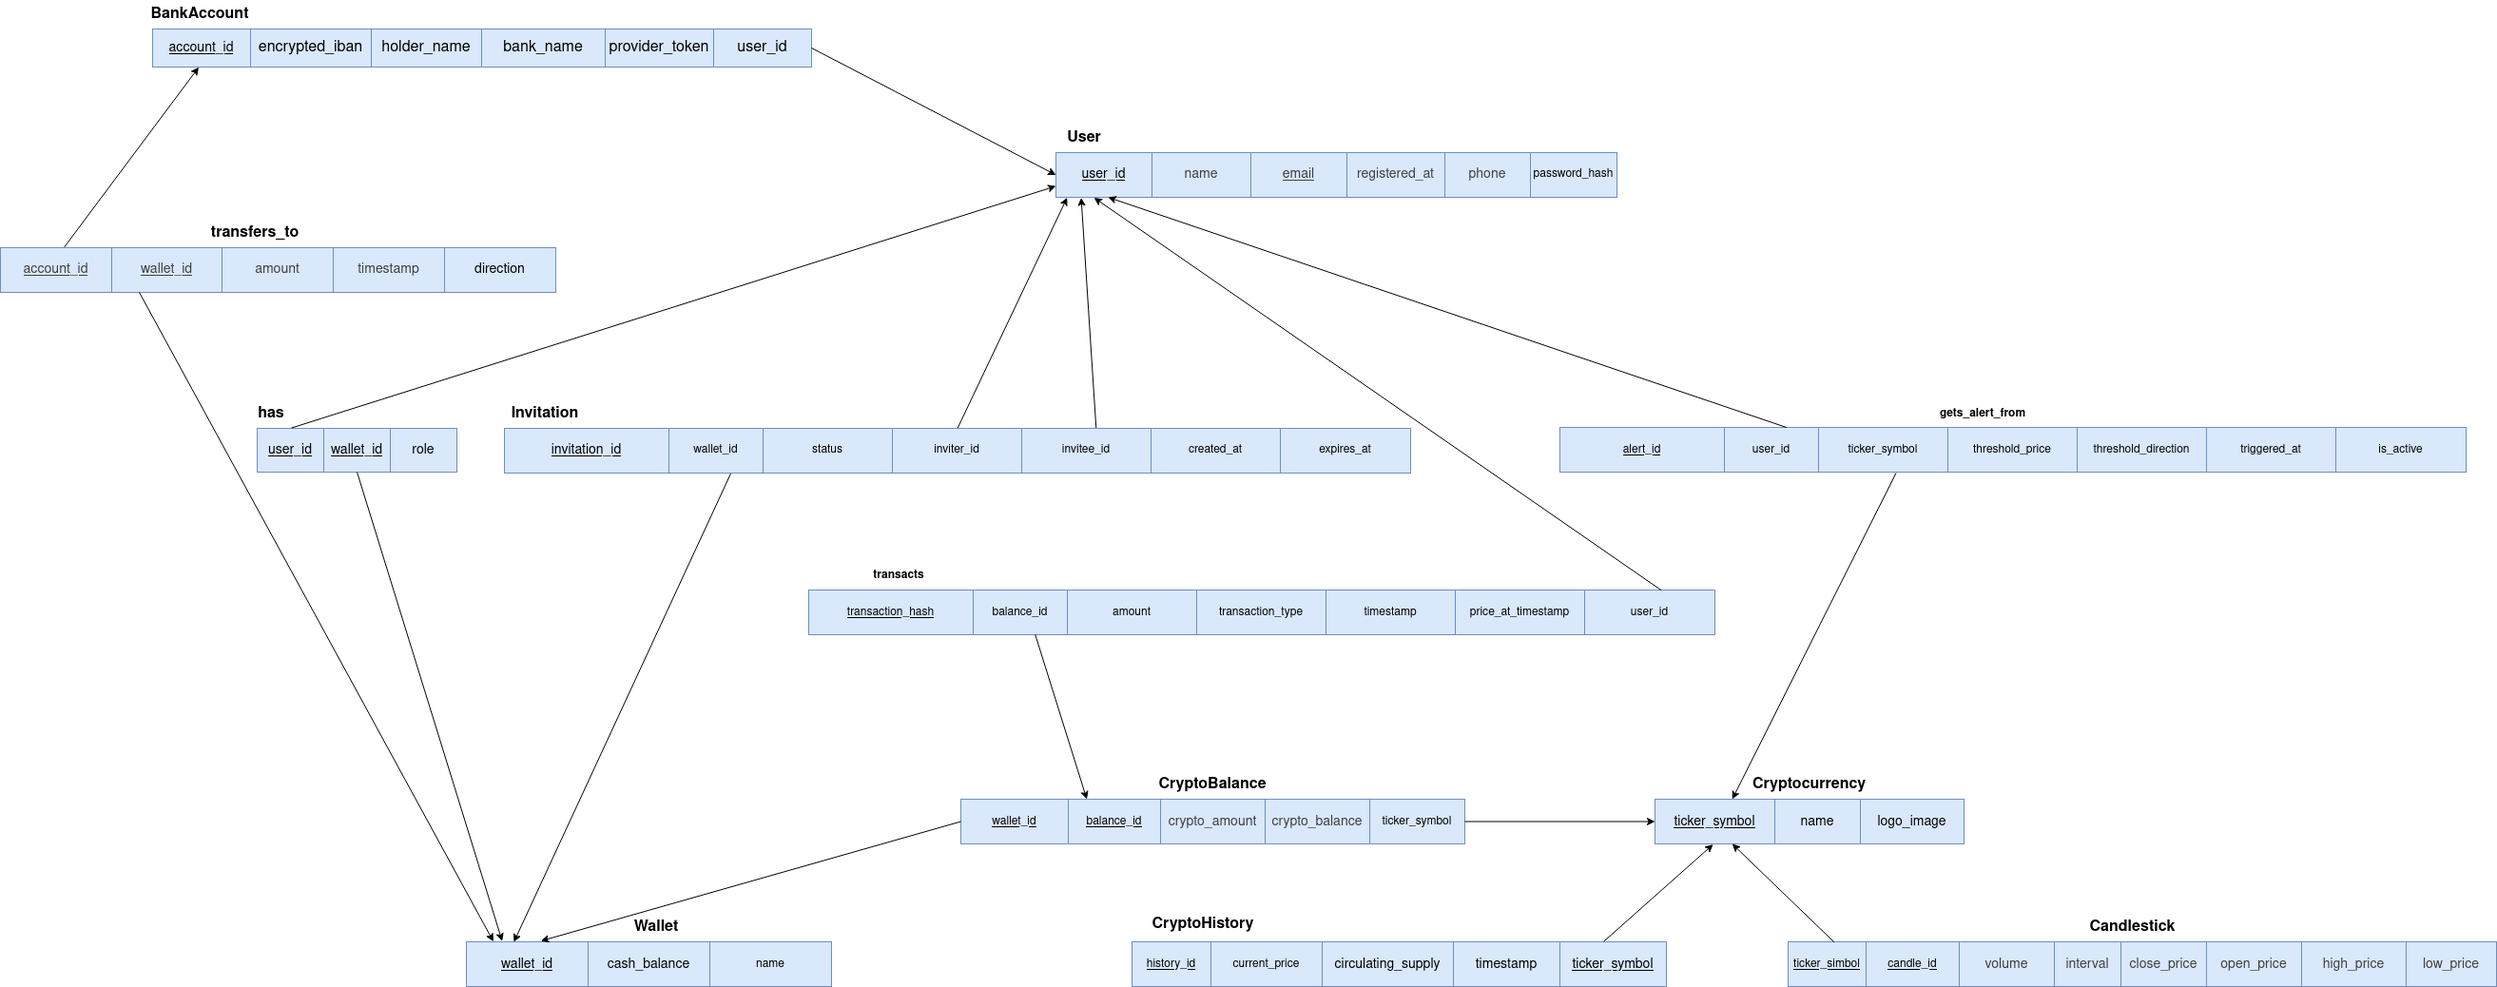
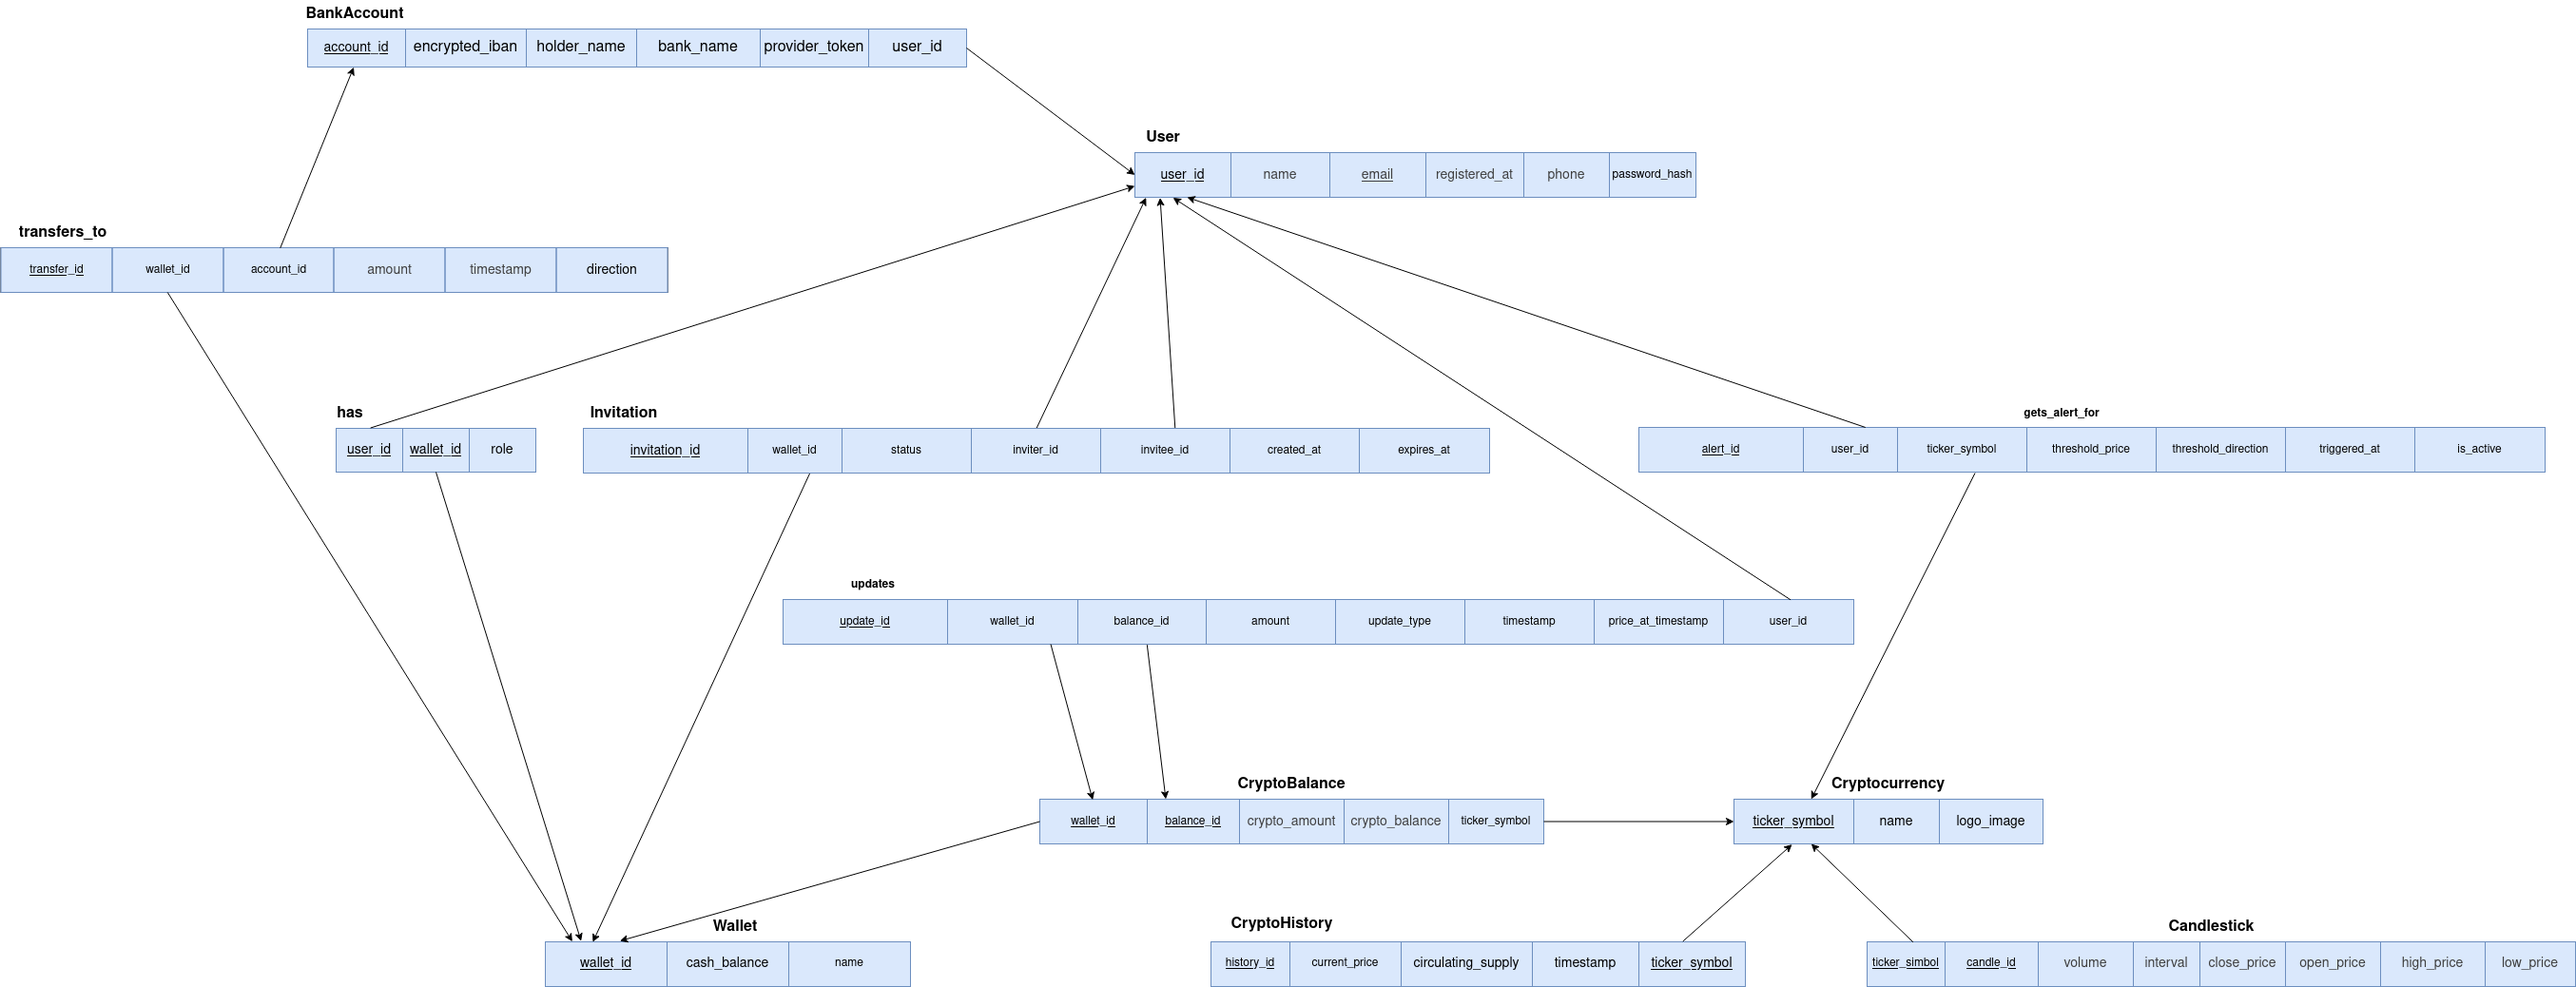
Update ER/RS diagrams

diff --git a/deliverable-1/sections/examples.tex b/deliverable-1/sections/examples.tex
@@ -268,7 +268,7 @@
 \bowtie_{\text{ticker\_symbol}} \text{Cryptocurrency}
 \\
 &B \leftarrow
-{}_{\text{user\_id, asset\_id}}\mathcal{G}_{\text{sum(balance) as assetCount}}
+{}_{\text{user\_id, ticker\_symbol}}\mathcal{G}_{\text{sum(balance) as cryptoCount}}
 \Bigl(\pi_{\text{user\_id, name, ticker\_symbol, crypto\_amount}} \bigl(A\bigr)\Bigr) \\
 &C \leftarrow \sigma_{\text{user\_id=1} \land \text{ticker\_symbol=BTC}}\bigl(B\bigr)
 \end{aligned}
@@ -283,7 +283,7 @@
   \text{BankAccount} \bowtie_{\text{account\_id}}
   \text{transfers\_to}
 \bigr) \\
-&\sigma_{\text{user\_id=1}} \Bigl(\pi_{\text{user\_id, wallet\_id}}\bigl(A\bigr)\Bigr) \\
+&B \leftarrow \sigma_{\text{user\_id=1}} \Bigl(\pi_{\text{user\_id, wallet\_id}}\bigl(A\bigr)\Bigr) \\
 \end{aligned}
 \]
 
@@ -298,7 +298,7 @@
 \begin{aligned}
 &A \leftarrow 
 \text{User} \bowtie_{\text{user\_id}}
-\text{transacts} \bowtie_{\text{balance\_id}}
+\text{updates} \bowtie_{\text{balance\_id}}
 \text{CryptoBalance} \bowtie_{\text{ticker\_symbol}}
 \text{Cryptocurency} \\
 &B \leftarrow \sigma_{\text{user\_id} = 1 \land \text{ticker\_symbol = BTC} \land 
